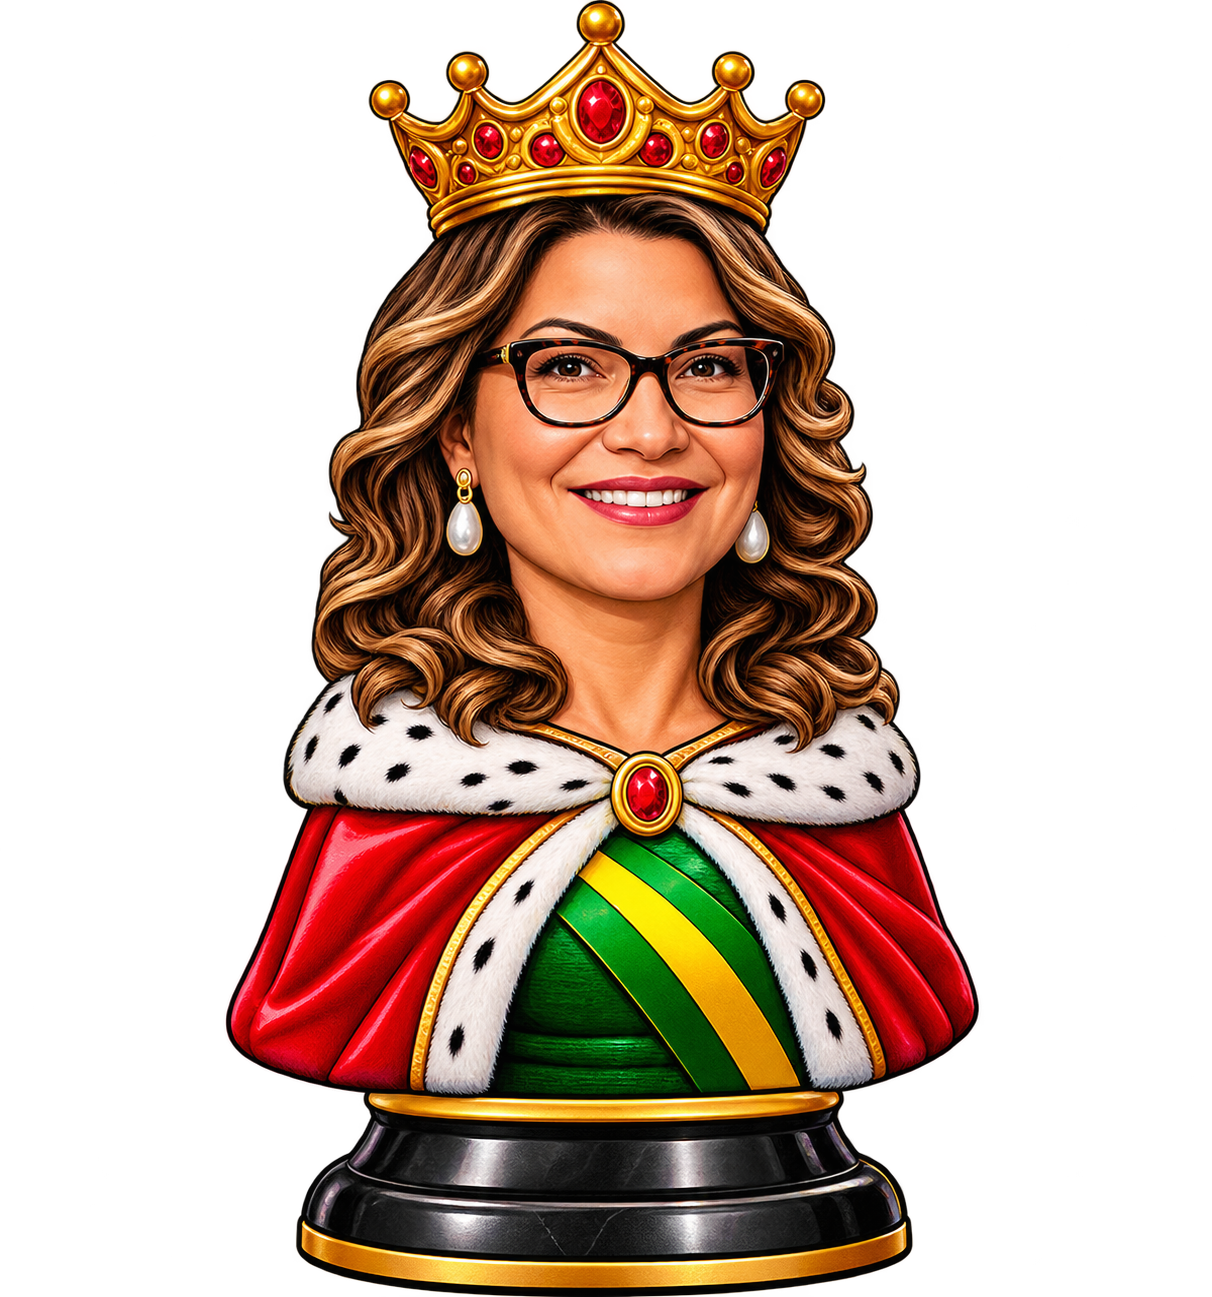
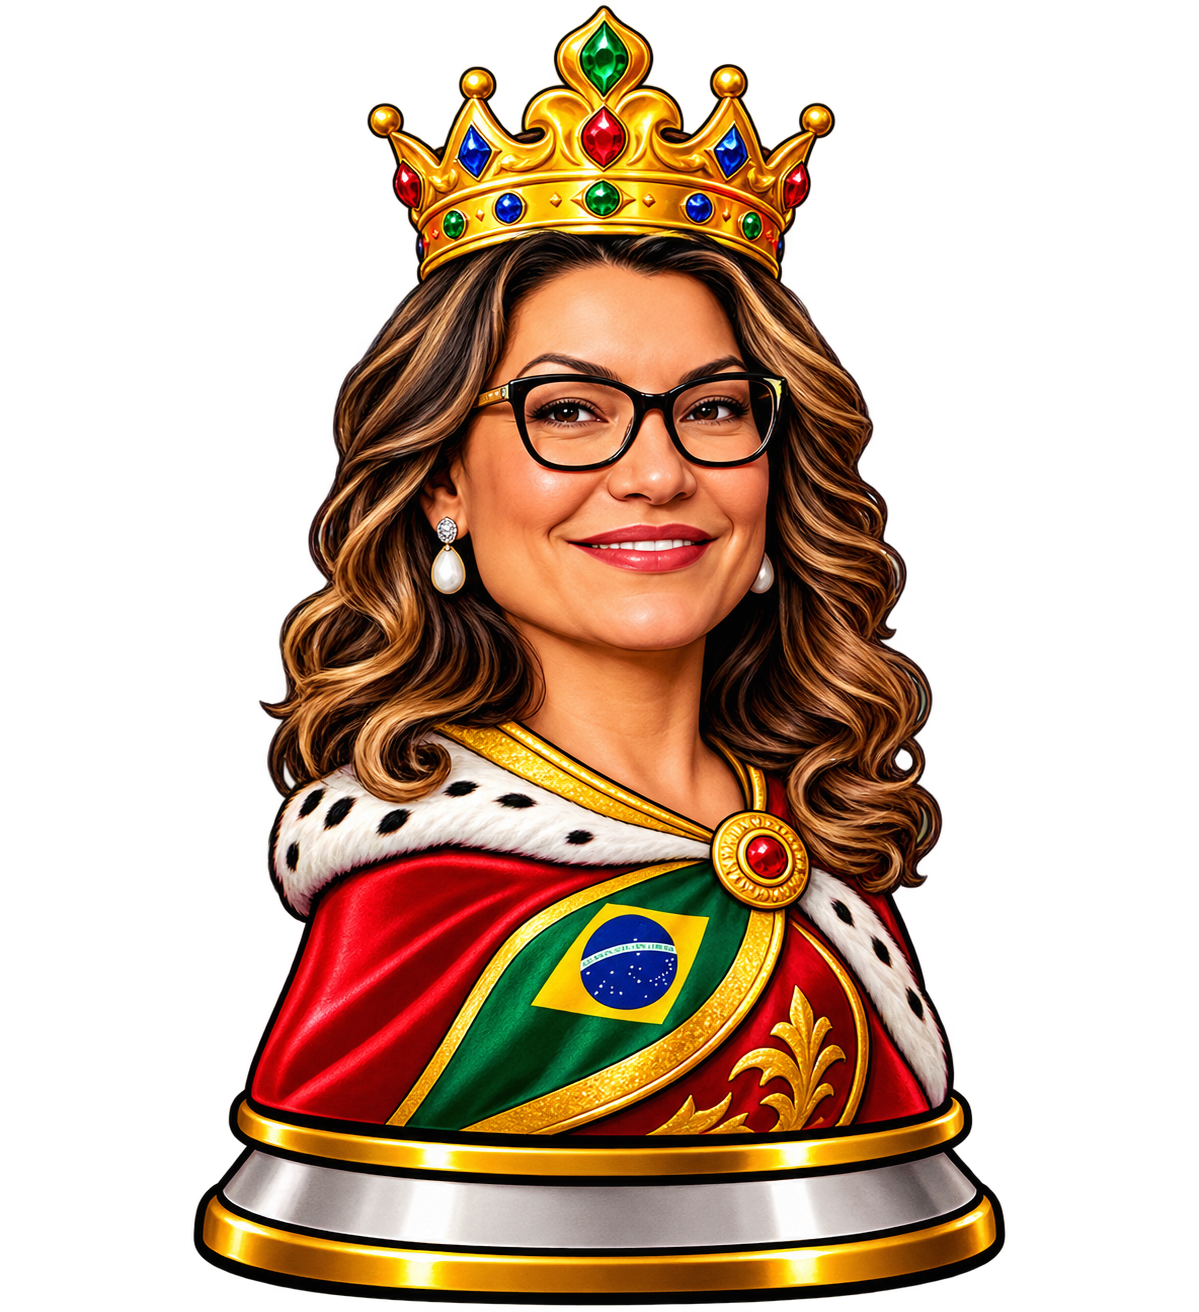
Rainha Michele inserida

diff --git a/src/application/ChessBoardPanel.java b/src/application/ChessBoardPanel.java
@@ -41,6 +41,8 @@ public class ChessBoardPanel extends JPanel {
 	private ImageIcon lulaKingIcon;
 	private ImageIcon bolsonaroKingIcon;
 	private ImageIcon janjaQueenIcon;
+	private ImageIcon michelleQueenIcon;
+
 	private ChessPosition selectedPosition;
 	private boolean[][] possibleMoves;
 
@@ -81,7 +83,16 @@ public class ChessBoardPanel extends JPanel {
 
 			janjaQueenIcon = new ImageIcon(scaledImage);
 		}
+		// Carrega a imagem da Rainha Michelle
+		URL michelleURL = getClass().getResource("/images/rainha-michelle.png");
 
+		if (michelleURL != null) {
+			ImageIcon originalIcon = new ImageIcon(michelleURL);
+
+			Image scaledImage = originalIcon.getImage().getScaledInstance(80, 80, Image.SCALE_SMOOTH);
+
+			michelleQueenIcon = new ImageIcon(scaledImage);
+		}
 		setLayout(new GridLayout(8, 8));
 
 		setLayout(new GridLayout(8, 8));
@@ -170,73 +181,81 @@ public class ChessBoardPanel extends JPanel {
 		}
 	}
 
+
+	// Atualiza o tabuleiro
 	public void updateBoard() {
 
-		ChessPiece[][] pieces = chessMatch.getPieces();
+	    ChessPiece[][] pieces = chessMatch.getPieces();
 
-		for (int row = 0; row < 8; row++) {
+	    for (int row = 0; row < 8; row++) {
 
-			for (int col = 0; col < 8; col++) {
+	        for (int col = 0; col < 8; col++) {
 
-				ChessPiece piece = pieces[row][col];
+	            ChessPiece piece = pieces[row][col];
 
-				// Restaura a cor original da casa
-				squares[row][col].setBackground(getSquareColor(row, col));
+	            // Restaura a cor original da casa
+	            squares[row][col].setBackground(getSquareColor(row, col));
 
-				if (piece == null) {
-					squares[row][col].setText("");
-					squares[row][col].setIcon(null);
+	            if (piece == null) {
 
-				} else if (piece instanceof King && piece.getColor() == chess.Color.WHITE && lulaKingIcon != null) {
+	                squares[row][col].setText("");
+	                squares[row][col].setIcon(null);
 
-					// Exibe o Rei Lula
-					squares[row][col].setText("");
-					squares[row][col].setIcon(lulaKingIcon);
+	            } else if (piece instanceof King
+	                    && piece.getColor() == chess.Color.WHITE
+	                    && lulaKingIcon != null) {
 
-				} else if (piece instanceof King && piece.getColor() == chess.Color.BLACK
-						&& bolsonaroKingIcon != null) {
+	                // Exibe o Rei Lula
+	                squares[row][col].setText("");
+	                squares[row][col].setIcon(lulaKingIcon);
 
-					// Exibe o Rei Bolsonaro
-					squares[row][col].setText("");
-					squares[row][col].setIcon(bolsonaroKingIcon);
+	            } else if (piece instanceof King
+	                    && piece.getColor() == chess.Color.BLACK
+	                    && bolsonaroKingIcon != null) {
 
-				} else if (piece instanceof Queen && piece.getColor() == chess.Color.WHITE && janjaQueenIcon != null) {
+	                // Exibe o Rei Bolsonaro
+	                squares[row][col].setText("");
+	                squares[row][col].setIcon(bolsonaroKingIcon);
 
-					// Exibe a Rainha Janja
-					squares[row][col].setText("");
-					squares[row][col].setIcon(janjaQueenIcon);
+	            } else if (piece instanceof Queen
+	                    && piece.getColor() == chess.Color.WHITE
+	                    && janjaQueenIcon != null) {
 
-				} else {
+	                // Exibe a Rainha Janja
+	                squares[row][col].setText("");
+	                squares[row][col].setIcon(janjaQueenIcon);
 
-					squares[row][col].setIcon(null);
-					squares[row][col].setText(getPieceSymbol(piece));
+	            } else if (piece instanceof Queen
+	                    && piece.getColor() == chess.Color.BLACK
+	                    && michelleQueenIcon != null) {
 
-				}
-				// Destaca os movimentos possíveis
-				if (possibleMoves != null && possibleMoves[row][col]) {
-					squares[row][col].setBackground(POSSIBLE_MOVE);
-				}
+	                // Exibe a Rainha Michelle
+	                squares[row][col].setText("");
+	                squares[row][col].setIcon(michelleQueenIcon);
 
-				// Destaca a peça selecionada
-				if (selectedPosition != null && 8 - selectedPosition.getRow() == row
-						&& selectedPosition.getColumn() - 'a' == col) {
+	            } else {
 
-					squares[row][col].setBackground(SELECTED_SQUARE);
-				}
-			}
-		}
+	                squares[row][col].setIcon(null);
+	                squares[row][col].setText(getPieceSymbol(piece));
 
-		// Destaca a peça selecionada.
-		if (selectedPosition != null)
+	            }
 
-		{
+	            // Destaca os movimentos possíveis
+	            if (possibleMoves != null && possibleMoves[row][col]) {
+	                squares[row][col].setBackground(POSSIBLE_MOVE);
+	            }
 
-			int row = 8 - selectedPosition.getRow();
-			int col = selectedPosition.getColumn() - 'a';
+	            // Destaca a peça selecionada
+	            if (selectedPosition != null
+	                    && 8 - selectedPosition.getRow() == row
+	                    && selectedPosition.getColumn() - 'a' == col) {
 
-			squares[row][col].setBackground(SELECTED_SQUARE);
-		}
+	                squares[row][col].setBackground(SELECTED_SQUARE);
+	            }
+	        }
+	    }
 	}
+
 
 	private String getPieceSymbol(ChessPiece piece) {
 
